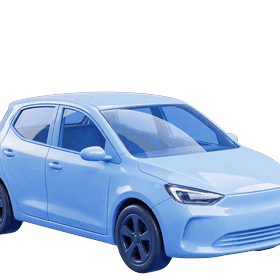
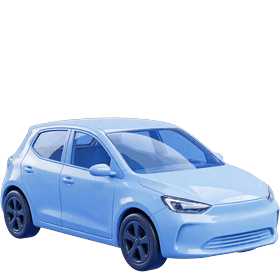
Stop cropping category images: keep the slot fully inside the tile and fit each object entirely within the canvas rather than letting wide ones overflow

diff --git a/frontend/src/styles.css b/frontend/src/styles.css
@@ -193,7 +193,7 @@ button{ border:none; background:none; font-family:inherit; cursor:pointer; user-
 /* Плитки одной ширины, поэтому и слот картинки фиксированный —
    так все иллюстрации занимают одинаковую долю пространства. */
 .cat-tile-2row-glyph{
-  position:absolute; right:-2px; bottom:-4px; width:74px; height:74px;
+  position:absolute; right:4px; bottom:2px; width:74px; height:74px;
   opacity:.95; z-index:0; pointer-events:none;
 }
 .cat-tile-2row-glyph svg{ width:100%; height:100%; display:block; opacity:.5; }
